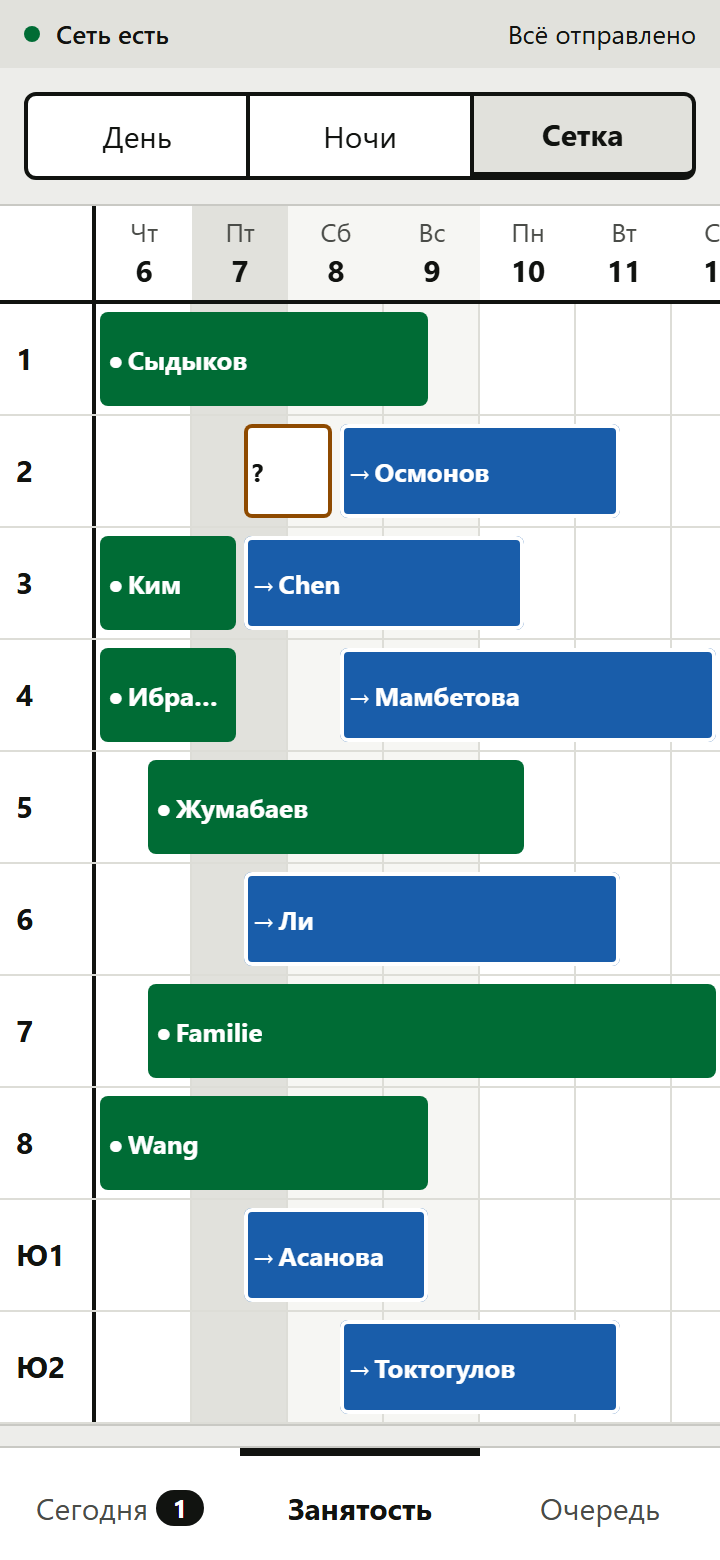
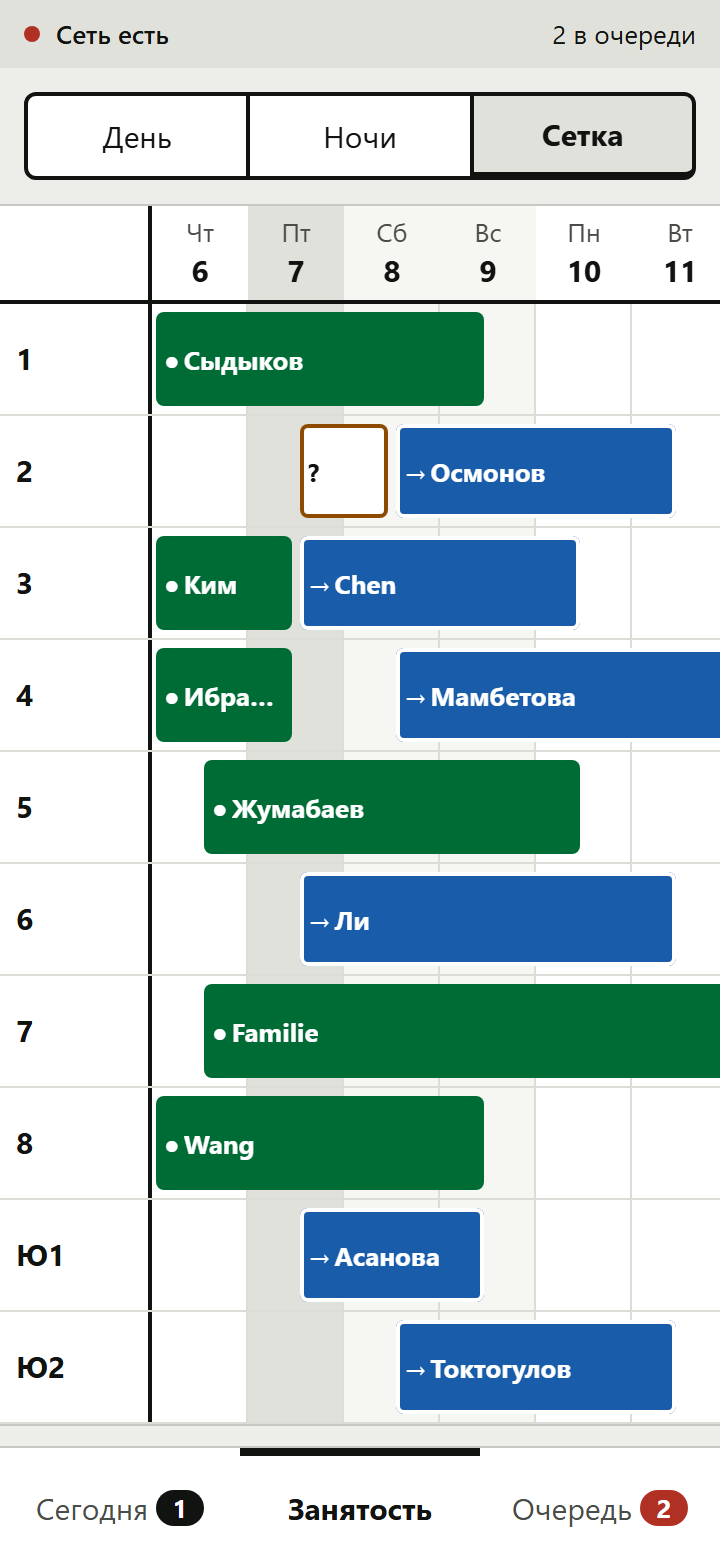
fix(web): ярлык номера не влезал в колонку «Сетки»
Найдено сквозной проверкой против ЖИВОГО API — на фикстурах этого было
не видно. Демо-номера называются «1» и «Ю1», реальные из prisma/seed —
«№101», «№201». Закреплённая колонка шириной --nc-space-48 (48px) их не
вмещала, и подпись наезжала на дни.

Заведён --nc-grid-label-w (76px): ширина рассчитана на шесть знаков
жирным --nc-fs-200. Добавлено усечение многоточием как страховка на
случай ярлыка длиннее расчётного — выпускать текст поверх сетки нельзя.
Ширина трека в шаблоне тоже считается от нового токена.

Проверено на живой базе: полоса «→ Тестов» идёт от середины 7-го до
середины 9-го, ярлыки не пересекают колонку дней. Регрессия демо-режима
на 360px — 36 вариантов, все чисты.

diff --git a/apps/web/components/OccupancyGrid.vue b/apps/web/components/OccupancyGrid.vue
@@ -41,7 +41,7 @@ const trackWidth = computed(() => `${columns.value.length * cell}px`)
 <template>
   <div>
     <div class="scroll">
-      <div class="track" :style="{ width: `calc(var(--nc-space-48) + ${trackWidth})` }">
+      <div class="track" :style="{ width: `calc(var(--nc-grid-label-w) + ${trackWidth})` }">
         <div class="head">
           <div class="head__corner" />
           <div
@@ -111,7 +111,7 @@ const trackWidth = computed(() => `${columns.value.length * cell}px`)
   left: 0;
   z-index: 2;
   flex: none;
-  width: var(--nc-space-48);
+  width: var(--nc-grid-label-w);
   background: var(--nc-bg-surface);
   border-right: var(--nc-stroke-control) solid var(--nc-border-strong);
 }
@@ -136,13 +136,18 @@ const trackWidth = computed(() => `${columns.value.length * cell}px`)
   flex: none;
   display: flex;
   align-items: center;
-  width: var(--nc-space-48);
+  width: var(--nc-grid-label-w);
   padding-left: var(--nc-space-8);
   background: var(--nc-bg-surface);
   border-right: var(--nc-stroke-control) solid var(--nc-border-strong);
   font-size: var(--nc-fs-200);
   line-height: var(--nc-lh-200);
   font-weight: var(--nc-fw-bold);
+  /* Страховка на случай ярлыка длиннее расчётного: обрезаем многоточием,
+     а не выпускаем поверх сетки */
+  overflow: hidden;
+  white-space: nowrap;
+  text-overflow: ellipsis;
 }
 .row__track { position: relative; flex: 1; }
 .cellbg {

diff --git a/apps/web/design-system/tokens.css b/apps/web/design-system/tokens.css
@@ -46,6 +46,10 @@
   --nc-touch-primary: 64px;  /* главное действие экрана, зона большого пальца */
   /* Кнопка в строке списка не должна быть уже, чем «Подтвердить» на кыргызском */
   --nc-btn-min-w: 114px;
+  /* Закреплённая колонка ярлыков в «Сетке». 48px хватало только на демо-номера
+     «1» и «Ю1»; в реальной базе номера называются «№101», и подпись наезжала
+     на дни. Ширина рассчитана на шесть знаков жирным --nc-fs-200. */
+  --nc-grid-label-w: 76px;
 
   /* ── Типографика: 7 ступеней, минимум 13px ─────────────────── */
   --nc-fs-100: 13px;  --nc-lh-100: 18px;  /* подпись, единицы, сноска */
